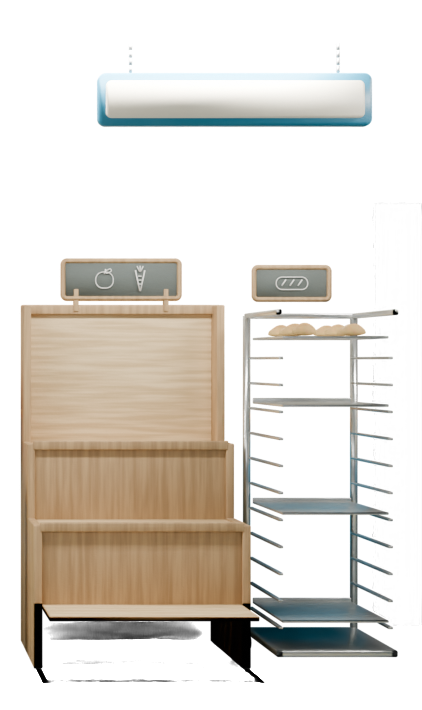
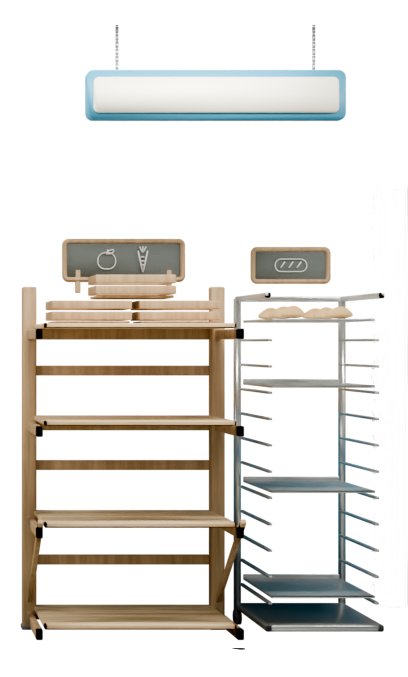
Receiving art: hortifruti is now an open pine shelving unit (posts, slatted shelves, aprons) so it reads in 3D and the crates sit on the shelves
Claude-Session: https://claude.ai/code/session_01QTQTfUYRubscqrThkTjaGx

diff --git a/unity/CheckoutSimulator/ArtSource/receiving/receiving_art_v3.py b/unity/CheckoutSimulator/ArtSource/receiving/receiving_art_v3.py
@@ -317,36 +317,46 @@ def build_drinks3(key="drinks"):
     INFO[key] = dict(sign=sg, widthM=W, slots=fixture_slots(key))
 
 # --- HORTIFRUTI | PAES: a stepped pine stand (3 tiers x 2) and a stainless bakery trolley (3 trays)
-PR3 = dict(SW=1.06, TW=.60, gap=.08, D=1.12, H=1.80)
+PR3 = dict(SW=1.06, TW=.60, gap=.08, D=.74, H=1.80)
 def build_produce3(key="produce"):
     SW_, TW, gap, D, H = PR3["SW"], PR3["TW"], PR3["gap"], PR3["D"], PR3["H"]; W = SW_ + gap + TW
     set_off(FIXX[key] + W / 2, -D - .05); SLOTS.pop(key, None)
     xl = -W / 2 + SW_ / 2; xr = W / 2 - TW / 2
     pine = wood_mat("pr_pine", (0.86, 0.64, 0.36, 1), (0.64, 0.44, 0.22, 1), grain=(1.0, 18.0, 18.0)); pine_d = wood_mat("pr_pine_d", (0.55, 0.36, 0.18, 1), (0.40, 0.25, 0.12, 1), grain=(18.0, 18.0, 1.0))
     chalk = mat("pr_chalk", (0.12, 0.14, 0.13, 1), rough=.9, bump=.2, scale=30); chalk_ink = mat("pr_chalk_ink", (0.95, 0.95, 0.92, 1), rough=.9, bump=0)
-    tiers = ((.30, .04, .36), (.68, .40, .36), (1.06, .76, .32)); tilt = 0.     # level shelves: the crates stand straight
+    # bay 0: an open pine shelving unit (corner posts, slatted shelves, aprons and side rails): 3 shelves x 2 crates
+    DS = .62; post = .07; levels = (.10, .60, 1.10, 1.58)
+    px = SW_ / 2 - post / 2
     for sx in (-1, 1):
-        for k, (z, y, d) in enumerate(tiers):
-            zt = z + d * math.sin(tilt)
-            box(f"pr_sidep{sx}{k}", (.04, d + .04, zt + .02), (xl + sx * (SW_ / 2 - .02), y + d / 2, (zt + .02) / 2), pine_d, bevel=.006, layer="front" if k == 0 else "back")
-        box(f"pr_sideb{sx}", (.04, .16, H), (xl + sx * (SW_ / 2 - .02), D - .08, H / 2), pine_d, bevel=.006)
-    box("pr_top", (SW_, .05, .05), (xl, D - .03, H - .02), pine_d, bevel=.006)
-    box("pr_backp", (SW_ - .08, .03, H - .4), (xl, D - .015, .4 + (H - .4) / 2), pine, bevel=.004)
-    for k, (z, y, d) in enumerate(tiers):
-        zc = z + d * math.sin(tilt) / 2; yc = y + d * math.cos(tilt) / 2
-        for j in range(4): box(f"pr_tier{k}_{j}", (SW_ - .08, d / 4 - .008, .022), (xl, yc + (j - 1.5) * d / 4 * math.cos(tilt), zc + (j - 1.5) * d / 4 * math.sin(tilt)), pine, bevel=.004, rot=(tilt, 0, 0))
-        # a low front lip; only the bottom tier's is drawn over the boxes (an upper lip is behind the crates below it)
-        box(f"pr_lip{k}", (SW_ - .06, .025, .045), (xl, y - .01, z + .012), pine_d, bevel=.005, layer="front" if k == 0 else "back")
-        zb = 0 if k == 0 else tiers[k - 1][0] + tiers[k - 1][2] * math.sin(tilt)      # the riser stands on the back of the tier below
-        box(f"pr_under{k}", (SW_ - .08, .025, z - zb), (xl, y + .01, (z + zb) / 2), pine_d, bevel=.004, layer="front" if k == 0 else "back")
-        sw = (SW_ - .12) / 2
-        for i in range(2):
-            x0 = xl - (SW_ - .12) / 2 + i * sw
-            slot(key, k, 0, i, x0 + .02, x0 + sw - .02, y + .03, y + d * math.cos(tilt) * .85, z + d * math.sin(tilt) * .3 + .022)
-    rounded("pr_board", .62, .20, (xl, D - .05, H + .14), chalk, r=.02, thick=.02, rot=(rad(90), 0, 0))
-    rounded("pr_board_fr", .62, .20, (xl, D - .06, H + .14), pine_d, r=.02, thick=.02, rot=(rad(90), 0, 0), frame=.025)
-    chalk_apple("pr_apple", xl - .09, D - .068, H + .14, .055, chalk_ink); chalk_carrot("pr_carrot", xl + .10, D - .068, H + .14, .06, chalk_ink)
-    for px in (-.24, .24): box(f"pr_board_post{px:+.2f}", (.025, .025, .12), (xl + px, D - .05, H + .03), pine_d, bevel=.004)
+        for j, yy in enumerate((post / 2, DS - post / 2)):
+            lay = "front" if j == 0 else "back"
+            box(f"pr_post{sx}{j}", (post, post, H), (xl + sx * px, yy, H / 2), pine_d, bevel=.008, layer=lay)
+            box(f"pr_foot{sx}{j}", (post + .01, post + .01, .02), (xl + sx * px, yy, .01), mat("pr_foot", (0.15, 0.15, 0.16, 1), rough=.6), bevel=.004, layer=lay)
+        for z in levels: box(f"pr_siderail{sx}{z:.2f}", (.03, DS - post, .05), (xl + sx * px, DS / 2, z - .03), pine_d, bevel=.005)
+        box(f"pr_sidebrace{sx}", (.025, .025, (DS - post) * 1.55), (xl + sx * px, DS / 2, .36), pine_d, bevel=.004, rot=(rad(50), 0, 0))
+    for k, z in enumerate(levels):
+        nb = 5; bw_ = (DS - .02) / nb
+        for j in range(nb): box(f"pr_slat{k}_{j}", (SW_ - 2 * post + .02, bw_ - .014, .022), (xl, .01 + (j + .5) * bw_, z + .011), pine, bevel=.004)
+        box(f"pr_apronF{k}", (SW_ - 2 * post, .025, .06), (xl, .012, z - .025), pine_d, bevel=.005, layer="front")
+        box(f"pr_apronB{k}", (SW_ - 2 * post, .025, .06), (xl, DS - .012, z - .025), pine_d, bevel=.005)
+        if k < 3:
+            sw = (SW_ - 2 * post - .04) / 2
+            for i in range(2):
+                x0 = xl - (SW_ - 2 * post - .04) / 2 + i * sw
+                slot(key, k, 0, i, x0 + .02, x0 + sw - .02, .06, DS - .06, z + .022)
+    # top shelf: a couple of empty stacked crates (decor), the back rails
+    for k, z in enumerate((.36, .86, 1.36)): box(f"pr_backrail{k}", (SW_ - 2 * post, .02, .05), (xl, DS - .01, z), pine_d, bevel=.004)
+    zt = levels[3] + .022
+    for k, (dx, dz) in enumerate(((-.22, 0), (.22, 0), (0, .13))):
+        cx_ = xl + dx; cz_ = zt + dz
+        for j, hz in enumerate((.02, .075)):   # slatted empty crate: two boards per side, open between them
+            for sy in (-1, 1): box(f"pr_empty{k}_y{j}{sy}", (.40, .014, .04), (cx_, DS / 2 + sy * .14, cz_ + hz + .02), pine_d, bevel=.003)
+            for sx in (-1, 1): box(f"pr_empty{k}_x{j}{sx}", (.014, .28, .04), (cx_ + sx * .193, DS / 2, cz_ + hz + .02), pine_d, bevel=.003)
+        box(f"pr_empty{k}_floor", (.38, .27, .01), (cx_, DS / 2, cz_ + .006), pine_d, bevel=.002)
+    rounded("pr_board", .62, .20, (xl, DS - .05, H + .14), chalk, r=.02, thick=.02, rot=(rad(90), 0, 0))
+    rounded("pr_board_fr", .62, .20, (xl, DS - .06, H + .14), pine_d, r=.02, thick=.02, rot=(rad(90), 0, 0), frame=.025)
+    chalk_apple("pr_apple", xl - .09, DS - .068, H + .14, .055, chalk_ink); chalk_carrot("pr_carrot", xl + .10, DS - .068, H + .14, .06, chalk_ink)
+    for bx_ in (-.24, .24): box(f"pr_board_post{bx_:+.2f}", (.025, .025, .12), (xl + bx_, DS - .05, H + .03), pine_d, bevel=.004)
     # bakery trolley: stainless uprights on casters, tray rails, three trays with slots and a top tray of bread
     inox = mat("pr_inox", (0.80, 0.82, 0.82, 1), rough=.22, metal=.9, bump=0); inox_d = mat("pr_inox_d", (0.60, 0.62, 0.62, 1), rough=.3, metal=.85, bump=0)
     alu = mat("dc_alu", (0.72, 0.74, 0.74, 1), rough=.3, metal=.8, bump=.06)
